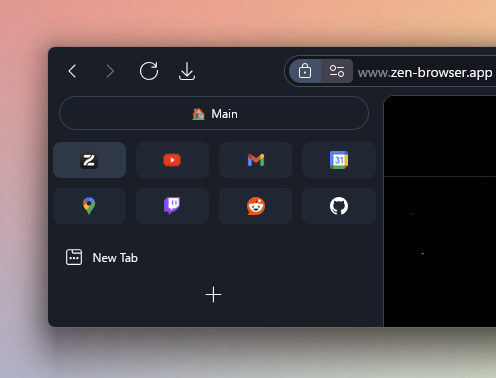
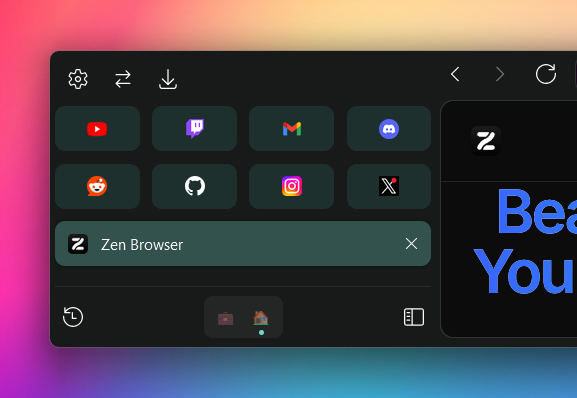
SuperPins Update 1.3.5
- Turned pins width changes into dropdown
- Adjusted to Zens Expand on Hover changes
- New Pic
- Increased Version to 1.3.5

diff --git a/SuperPins/SuperPins.css b/SuperPins/SuperPins.css
@@ -49,37 +49,31 @@
   }
 
   /* Increase width of pinned tabs */
-  @media (-moz-bool-pref: "zen.view.sidebar-expanded") and (not (-moz-bool-pref: "zen.view.sidebar-expanded.on-hover")) and (not (-moz-bool-pref: "uc.pins.wide.disabled")) {
-    #vertical-pinned-tabs-container {
-      grid-template-columns: repeat(auto-fit, minmax(60px, auto)) !important;
-      gap: var(--pins-gap) calc(var(--pins-gap) + 4px) !important;
-      margin-bottom: var(--pins-gap) !important;
+  @media (-moz-bool-pref: "zen.view.sidebar-expanded") and (not (-moz-bool-pref: "zen.view.sidebar-expanded.on-hover")) {
+
+    :root:has(#theme-SuperPins[uc-pins-width="Thin"]) {
+      --pins-width: 50px;
     }
+    :root:has(#theme-SuperPins[uc-pins-width="Normal"]) {
+      --pins-width: 60px;
+    }
+    :root:has(#theme-SuperPins[uc-pins-width="Wide"]) {
+      --pins-width: 70px;
+    }
+
+    :root:has(#theme-SuperPins[uc-pins-width="Thin"],
+                   #theme-SuperPins[uc-pins-width="Normal"],
+                   #theme-SuperPins[uc-pins-width="Wide"]) {
+                    #vertical-pinned-tabs-container {
+                      grid-template-columns: repeat(auto-fit, minmax(var(--pins-width), auto)) !important;
+                      gap: var(--pins-gap) calc(var(--pins-gap) + 4px) !important;
+                      margin-bottom: var(--pins-gap) !important;
+                    }
+                  }
+
     @media (-moz-bool-pref: "uc.pins.tall") {
       .tabbrowser-tab[pinned] { 
         min-height: 43px !important;
-      }
-    }
-  }
-
-  /* Increase width of pinned tabs for expand on hover */
-  @media (-moz-bool-pref: "zen.view.sidebar-expanded") and (-moz-bool-pref: "zen.view.sidebar-expanded.on-hover") and (not (-moz-bool-pref: "uc.pins.wide.disabled")) {  
-    #navigator-toolbox[zen-has-hover],
-    #navigator-toolbox:focus-within,
-    #navigator-toolbox[movingtab],
-    #navigator-toolbox[flash-popup],
-    #navigator-toolbox[has-popup-menu],
-    #navigator-toolbox:has(.tabbrowser-tab:active),
-    #navigator-toolbox:has(*[open='true']:not(tab):not(#zen-sidepanel-button)) {
-      #vertical-pinned-tabs-container {
-        grid-template-columns: repeat(auto-fit, minmax(60px, auto)) !important;
-        gap: var(--pins-gap) calc(var(--pins-gap) + 4px) !important;
-        margin-bottom: var(--pins-gap) !important;
-      }
-      @media (-moz-bool-pref: "uc.pins.tall") {
-        .tabbrowser-tab[pinned] { 
-          min-height: 43px !important;
-        }
       }
     }
   }

diff --git a/SuperPins/README.md b/SuperPins/README.md
@@ -4,11 +4,8 @@ This **Zen Mod** elevates your experience with pinned tabs and the tab bar in ge
 
 ![image](https://github.com/user-attachments/assets/ca671bae-590a-4ab8-9da5-13dab1369da7)
 
-## What it does by default:
-  - Increases the width of pinned tabs (This can be toggled off)
-  - Adds a universal gap between the pinned tabs (Gap size can be controlled)
-
-## Optional Features (toggle in Zen's Mod settings):
+## Features (toggle in Zens Mod settings):
+  - Increase the width of pinned tabs (This can be controlled through a dropdown)
   - Taller pinned tabs
   - Controllable Margins between pinned tabs (5px or 10px)
   - Box like corners for pinned tabs (less rounded corners)
